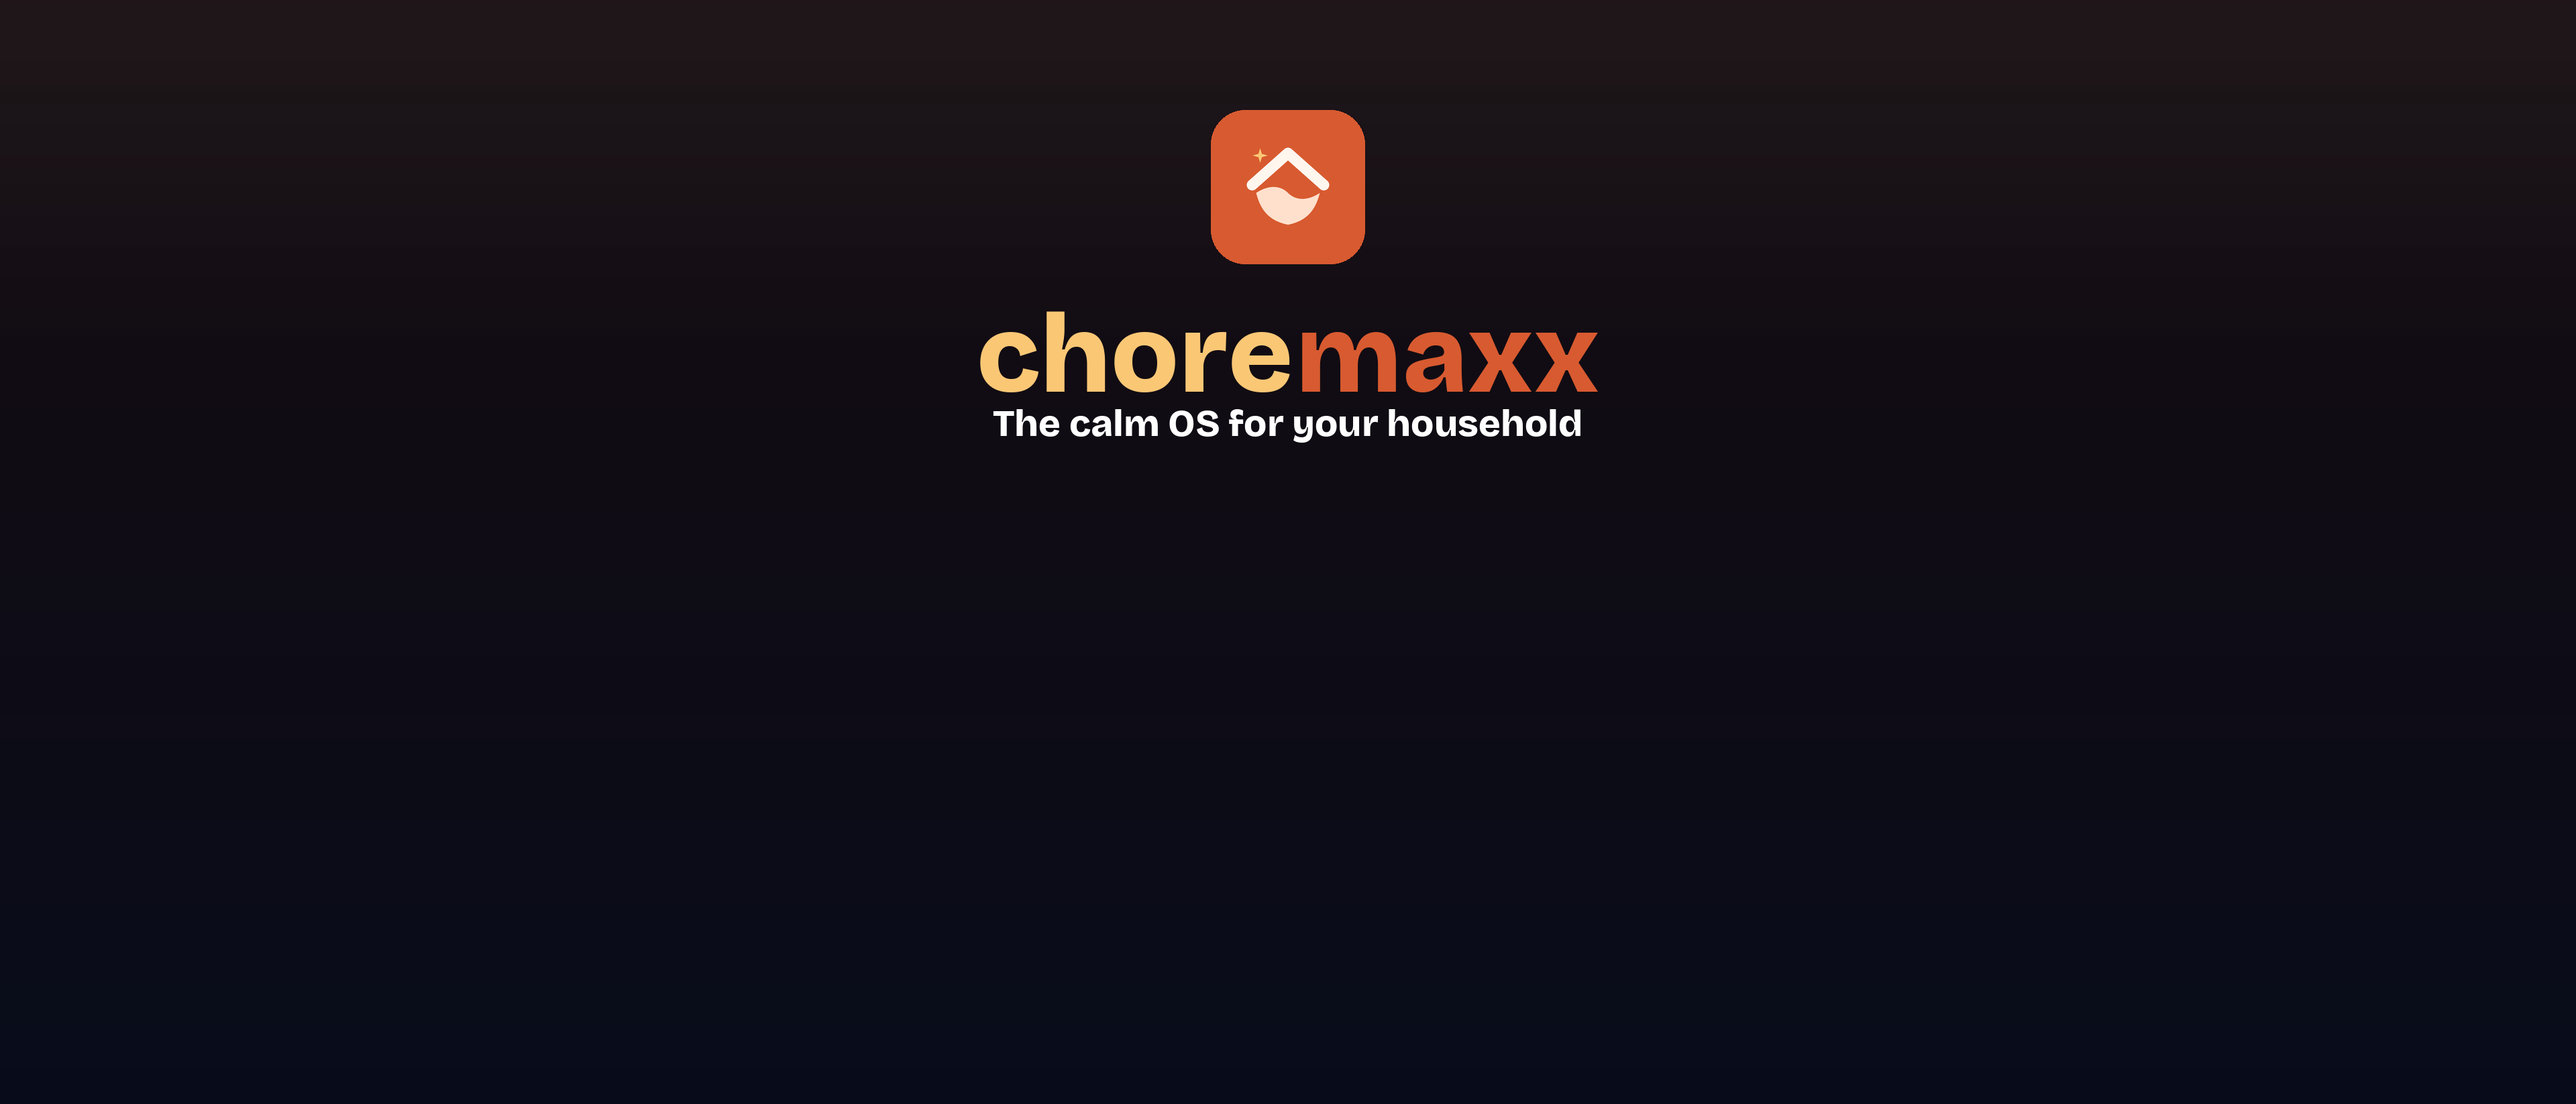
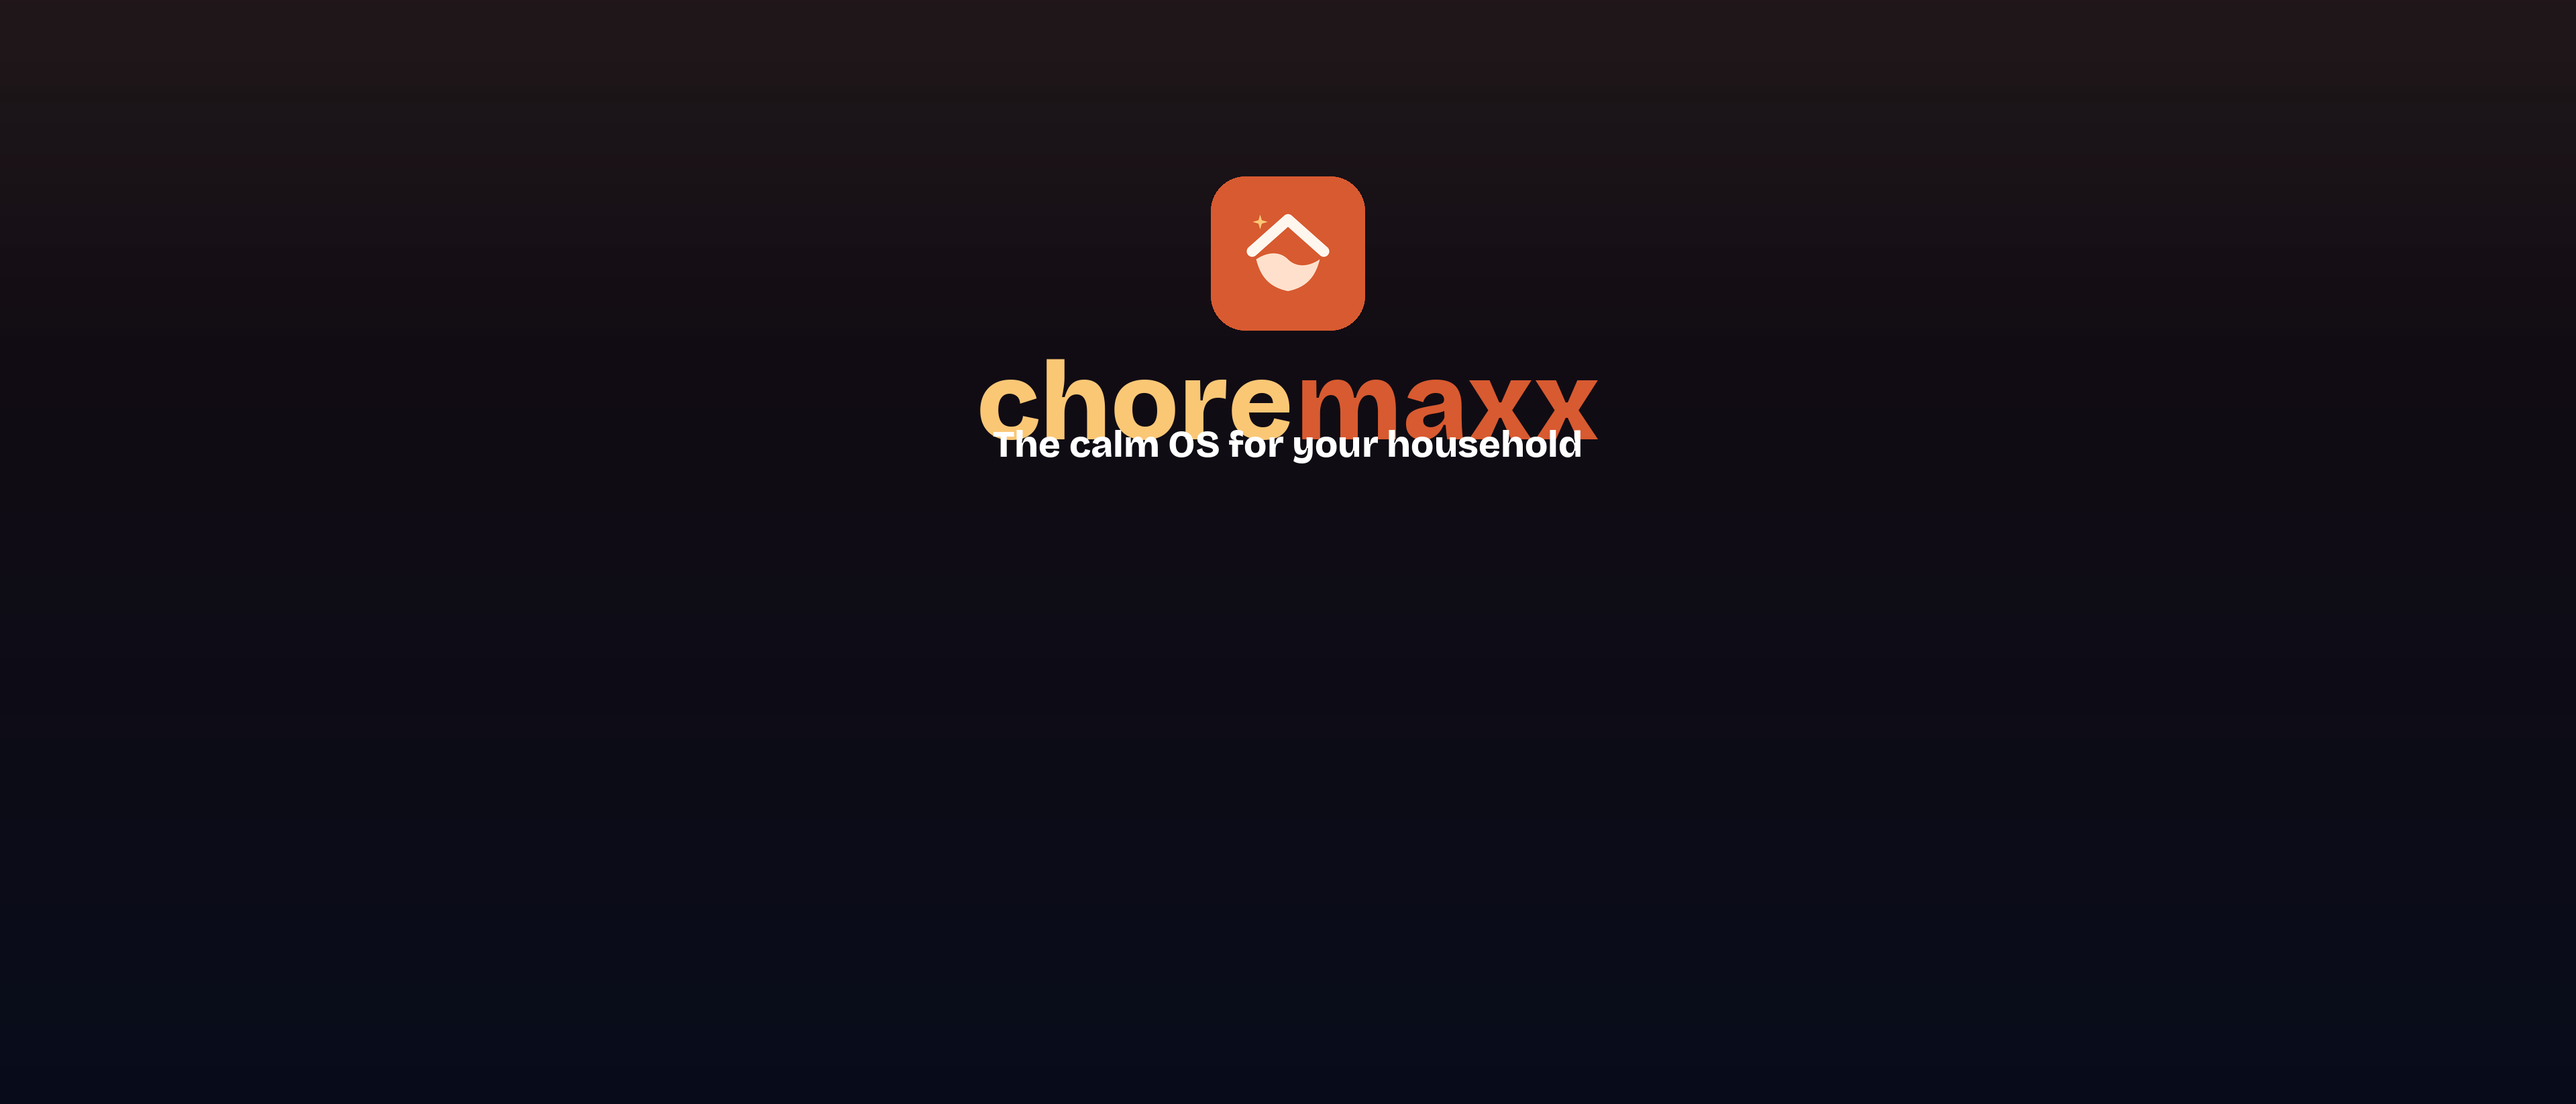
Lower ASC header lockup into dark band between island and sheet

Changed region(s): [[0.375, 0.093, 0.625, 0.4338]]

diff --git a/scripts/_asc_product_page_render.py b/scripts/_asc_product_page_render.py
@@ -206,17 +206,18 @@ def compose_header(w: int, h: int) -> Image.Image:
     gap_title_sub = int(title_size * 0.28)
     stack_h = icon_size + gap_icon_title + title_h + gap_title_sub + sh_sub
 
-    # Sit in the upper third so the ASC white sheet doesn't cover the tagline.
-    # Leave a small top inset for the back/share chrome.
-    stack_top = int(h * 0.10)
-    # Keep the whole stack above ~42% of the frame (below that is sheet territory).
-    max_bottom = int(h * 0.42)
-    if stack_top + stack_h > max_bottom:
-        # Shrink gaps slightly rather than dropping into the sheet zone
-        overflow = stack_top + stack_h - max_bottom
+    # Visible dark band between Dynamic Island / top chrome (~16%) and the
+    # App Store white sheet (~42%). Center the lockup in that band.
+    band_top = int(h * 0.16)
+    band_bottom = int(h * 0.40)
+    band_h = max(stack_h, band_bottom - band_top)
+    stack_top = band_top + max(0, (band_h - stack_h) // 2)
+    if stack_top + stack_h > band_bottom:
+        overflow = stack_top + stack_h - band_bottom
         gap_icon_title = max(8, gap_icon_title - overflow // 2)
         gap_title_sub = max(6, gap_title_sub - overflow // 2)
         stack_h = icon_size + gap_icon_title + title_h + gap_title_sub + sh_sub
+        stack_top = band_top + max(0, (band_bottom - band_top - stack_h) // 2)
 
     icon_left = cx - icon_size // 2
     icon_top = stack_top
